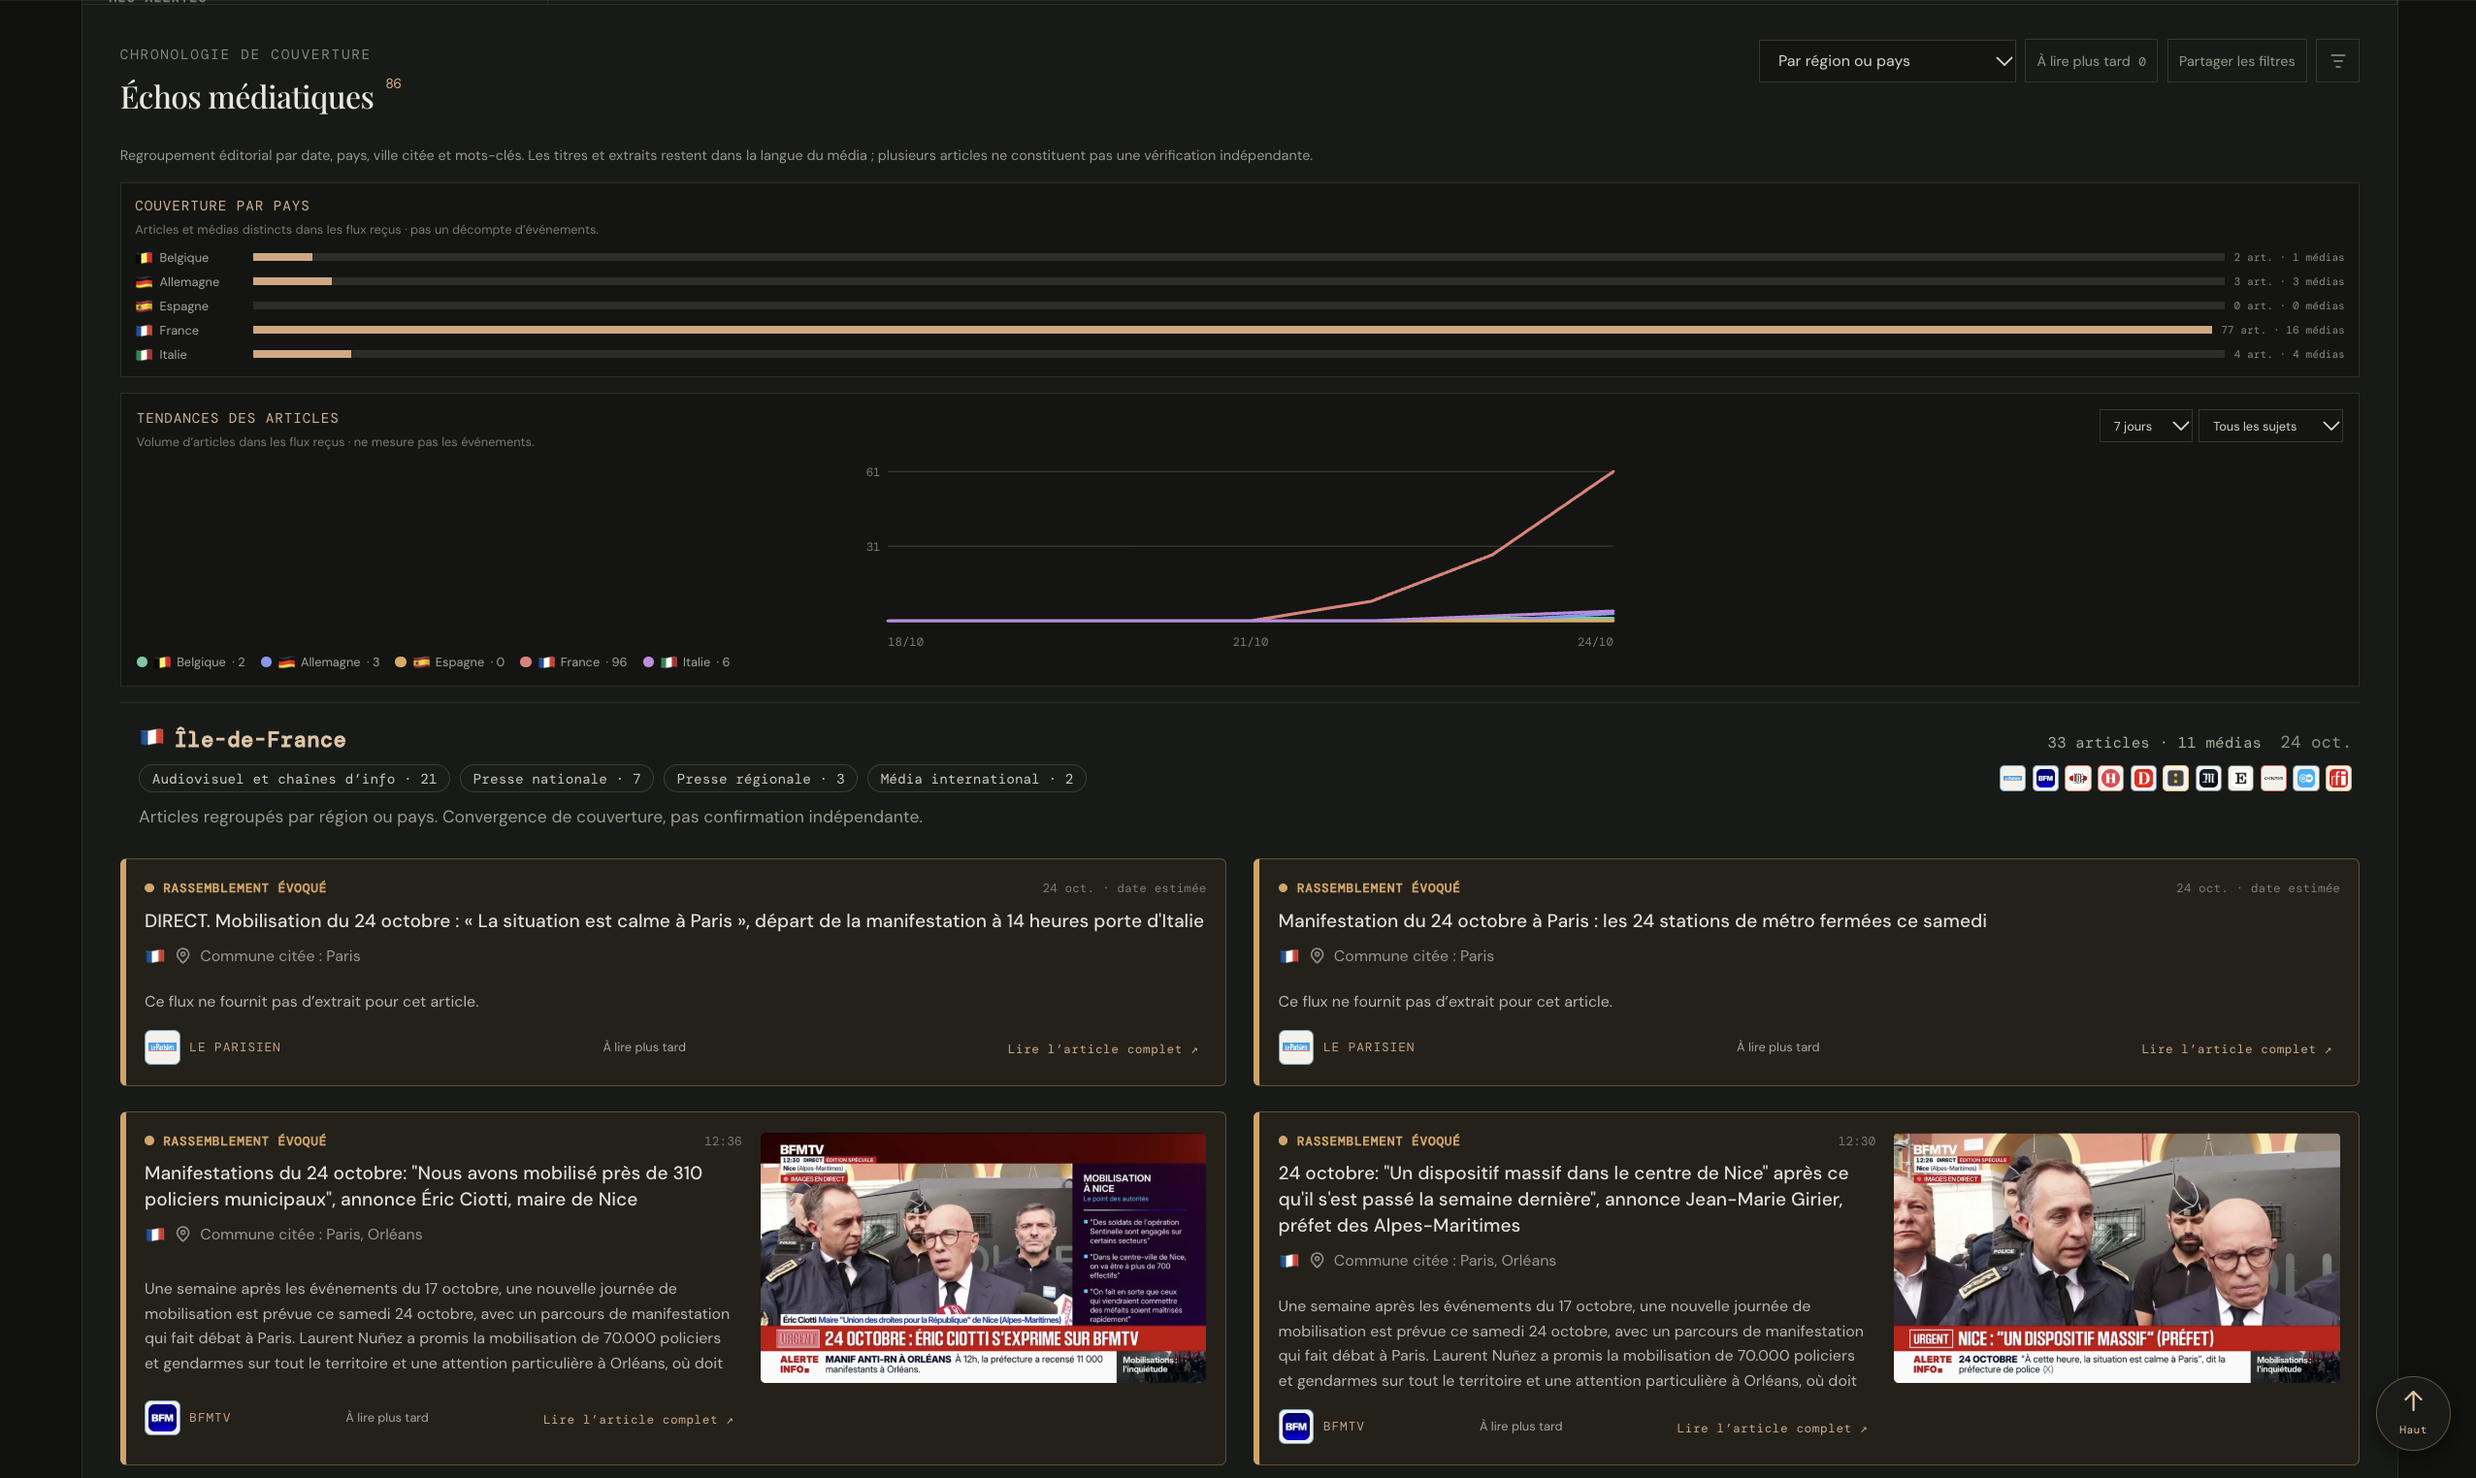
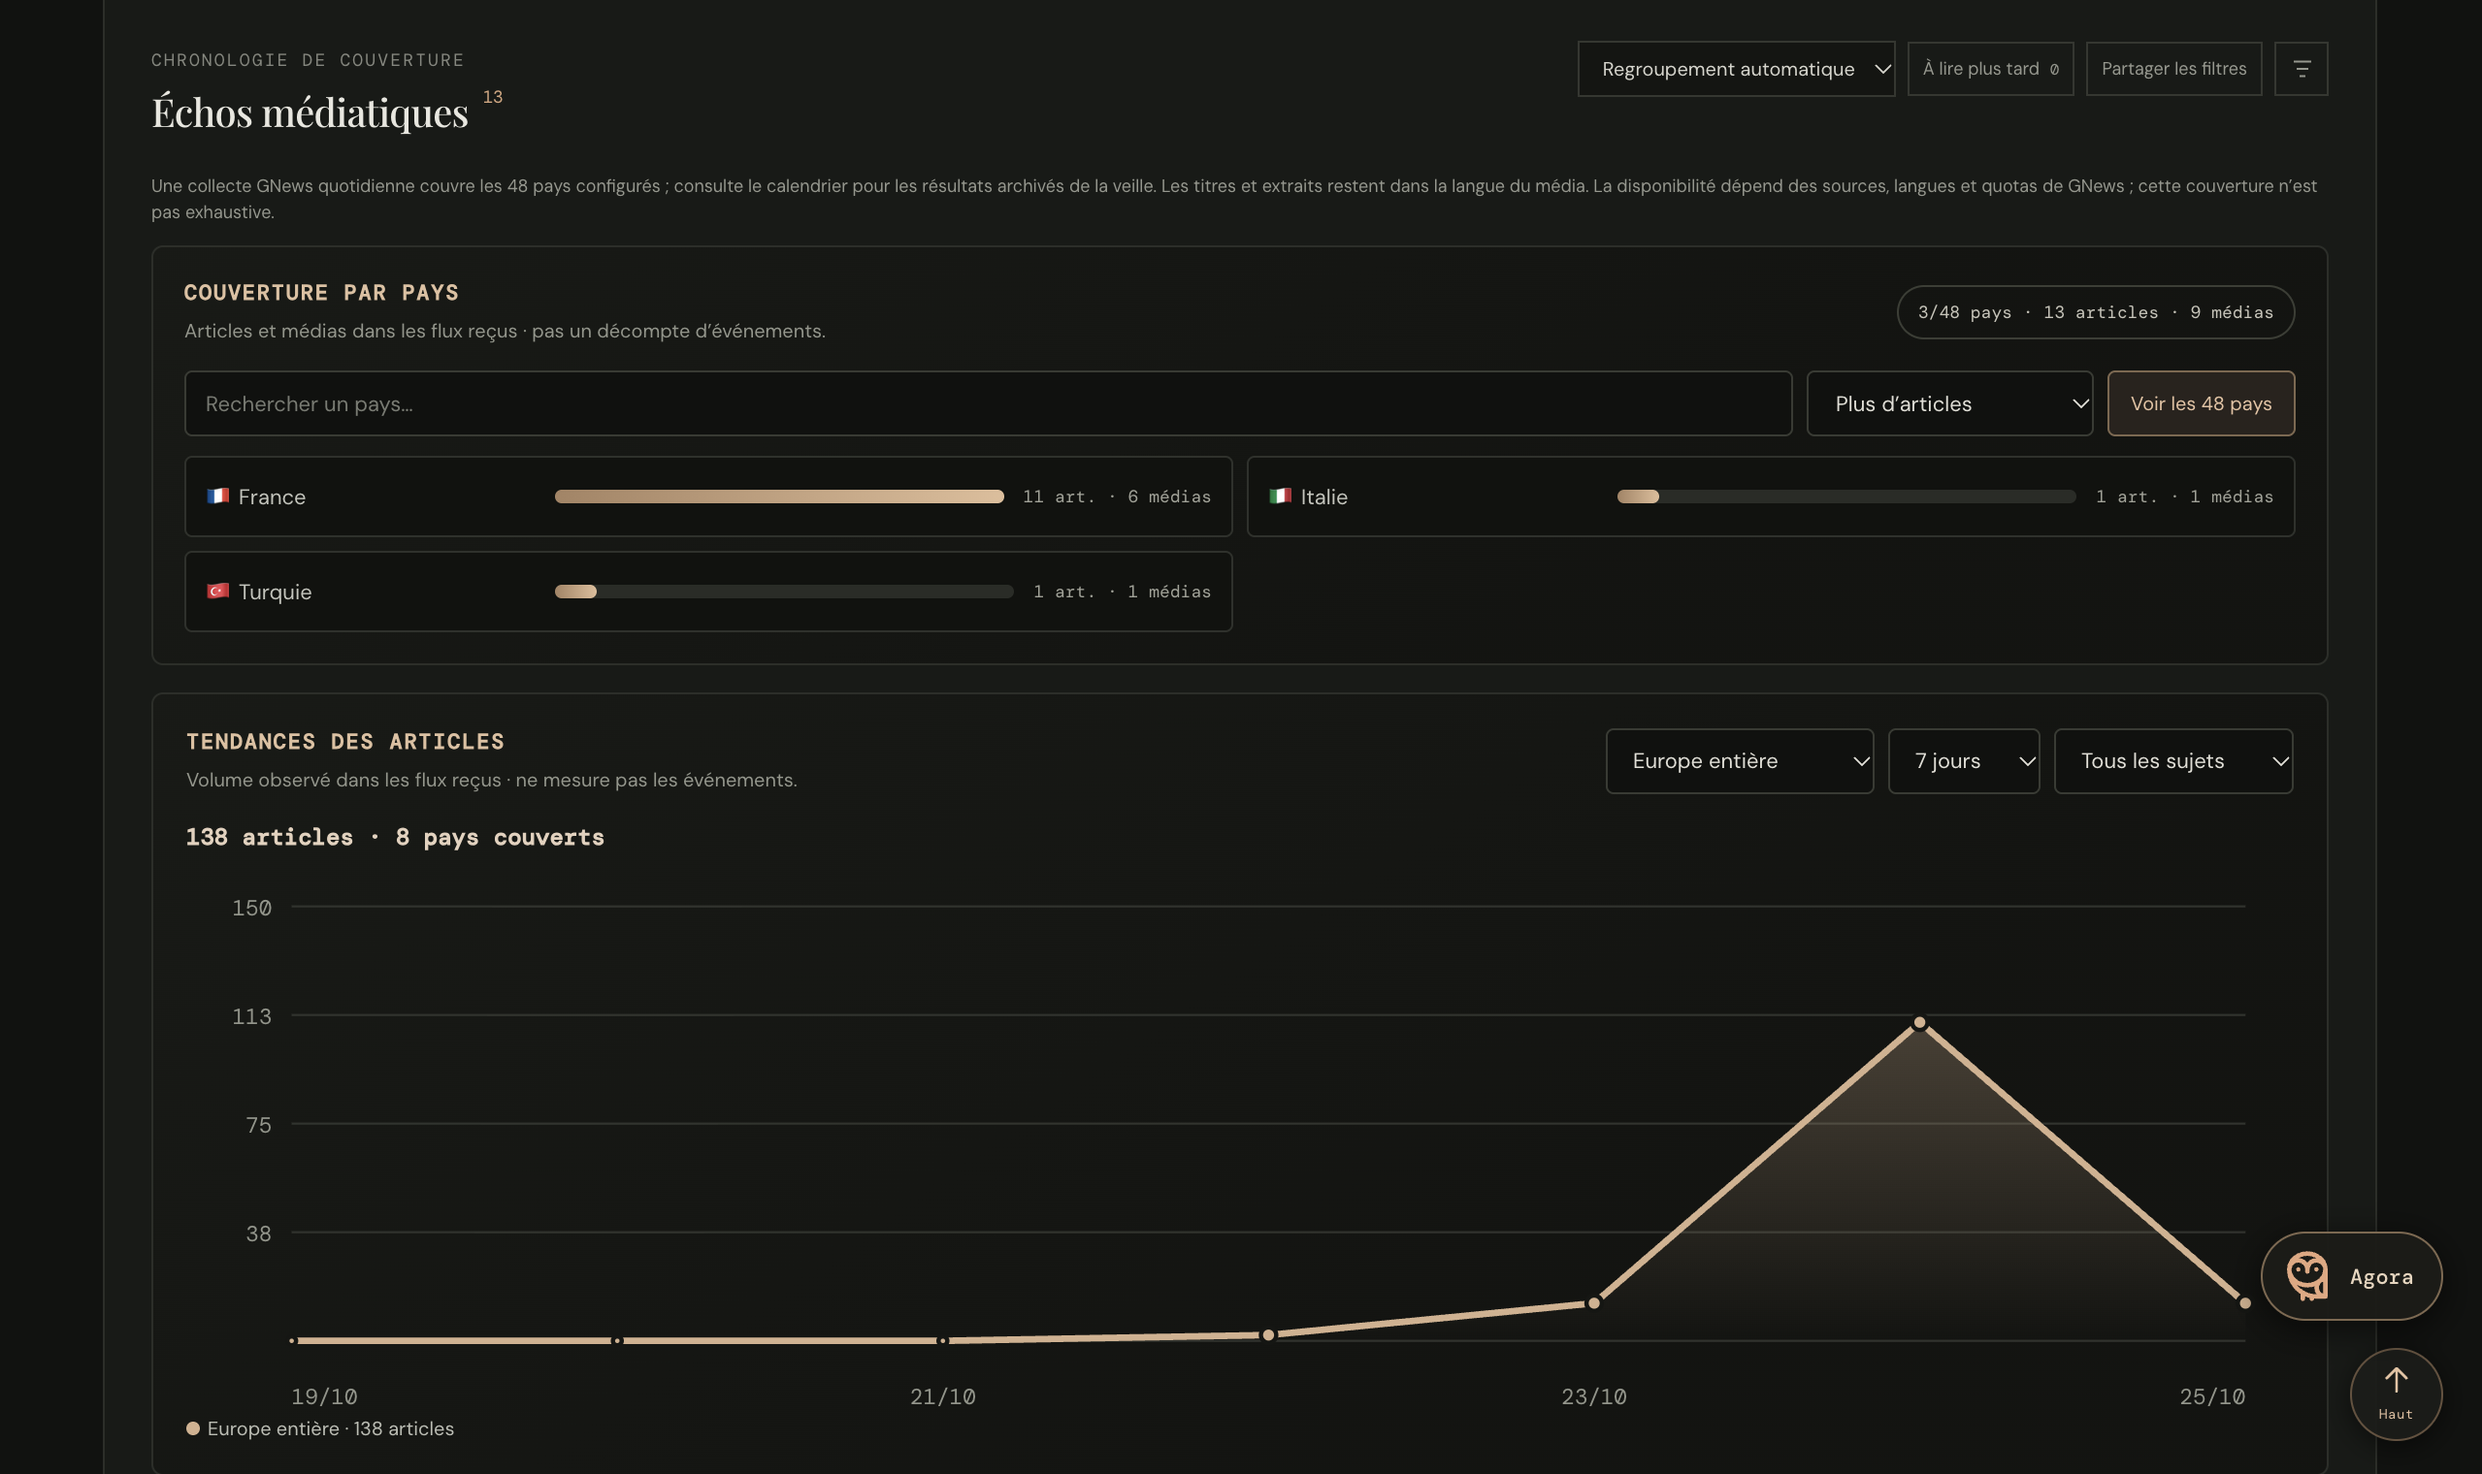
Met à jour la galerie du projet Veille

diff --git a/projects/veille.html b/projects/veille.html
@@ -138,9 +138,11 @@
           <h3 class="title-banner" data-i18n="projectDetails.gallery">Gallery</h3>
           <div class="gallery-grid">
             <div class="gallery-item"><img src="/assets/images/projects/imagesVeille/veille-dashboard.png" alt="Veille dashboard with a visual feed of recent media articles" width="2560" height="1530" loading="lazy" /></div>
+            <div class="gallery-item"><img src="/assets/images/projects/imagesVeille/veille-agora-searching.png" alt="Agora assistant searching web sources for a news question" width="2560" height="1656" loading="lazy" /></div>
+            <div class="gallery-item"><img src="/assets/images/projects/imagesVeille/veille-agora-response.png" alt="Agora assistant response with cited articles and a source preview" width="2560" height="1656" loading="lazy" /></div>
             <div class="gallery-item"><img src="/assets/images/projects/imagesVeille/veille-europe-live.png" alt="Official European news channel video players and broadcaster links" width="2556" height="1508" loading="lazy" /></div>
             <div class="gallery-item"><img src="/assets/images/projects/imagesVeille/veille-europe-map.png" alt="Interactive map of article mentions across pilot European countries" width="2556" height="1520" loading="lazy" /></div>
-            <div class="gallery-item"><img src="/assets/images/projects/imagesVeille/veille-coverage-analysis.png" alt="Media coverage timeline, country comparison and article trend chart" width="2552" height="1524" loading="lazy" /></div>
+            <div class="gallery-item"><img src="/assets/images/projects/imagesVeille/veille-coverage-analysis.png" alt="Media coverage timeline, country comparison and article trend chart" width="2558" height="1520" loading="lazy" /></div>
           </div>
         </div>
 
